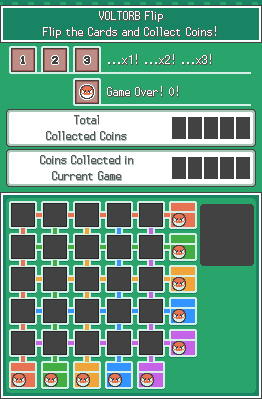
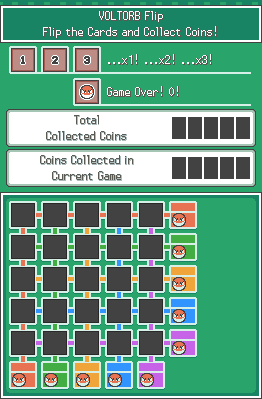
Fixed background + commented out animation
Cleaned up background image more. Commented out the dancing man.

Changed region(s): [[0.7634, 0.5113, 0.9771, 0.6917]]

diff --git a/main.py b/main.py
@@ -235,10 +235,10 @@ while run:
             cardGrid[i][t].draw()
     
     #load dance into loop
-    screen.blit(dancing_man[int(dance_index)],(500,511))
-    dance_index += .5
-    if dance_index > 74:
-        dance_index = 0
+    # screen.blit(dancing_man[int(dance_index)],(500,511))
+    # dance_index += .5
+    # if dance_index > 74:
+    #     dance_index = 0
 
     #event handler
     for event in pygame.event.get():
